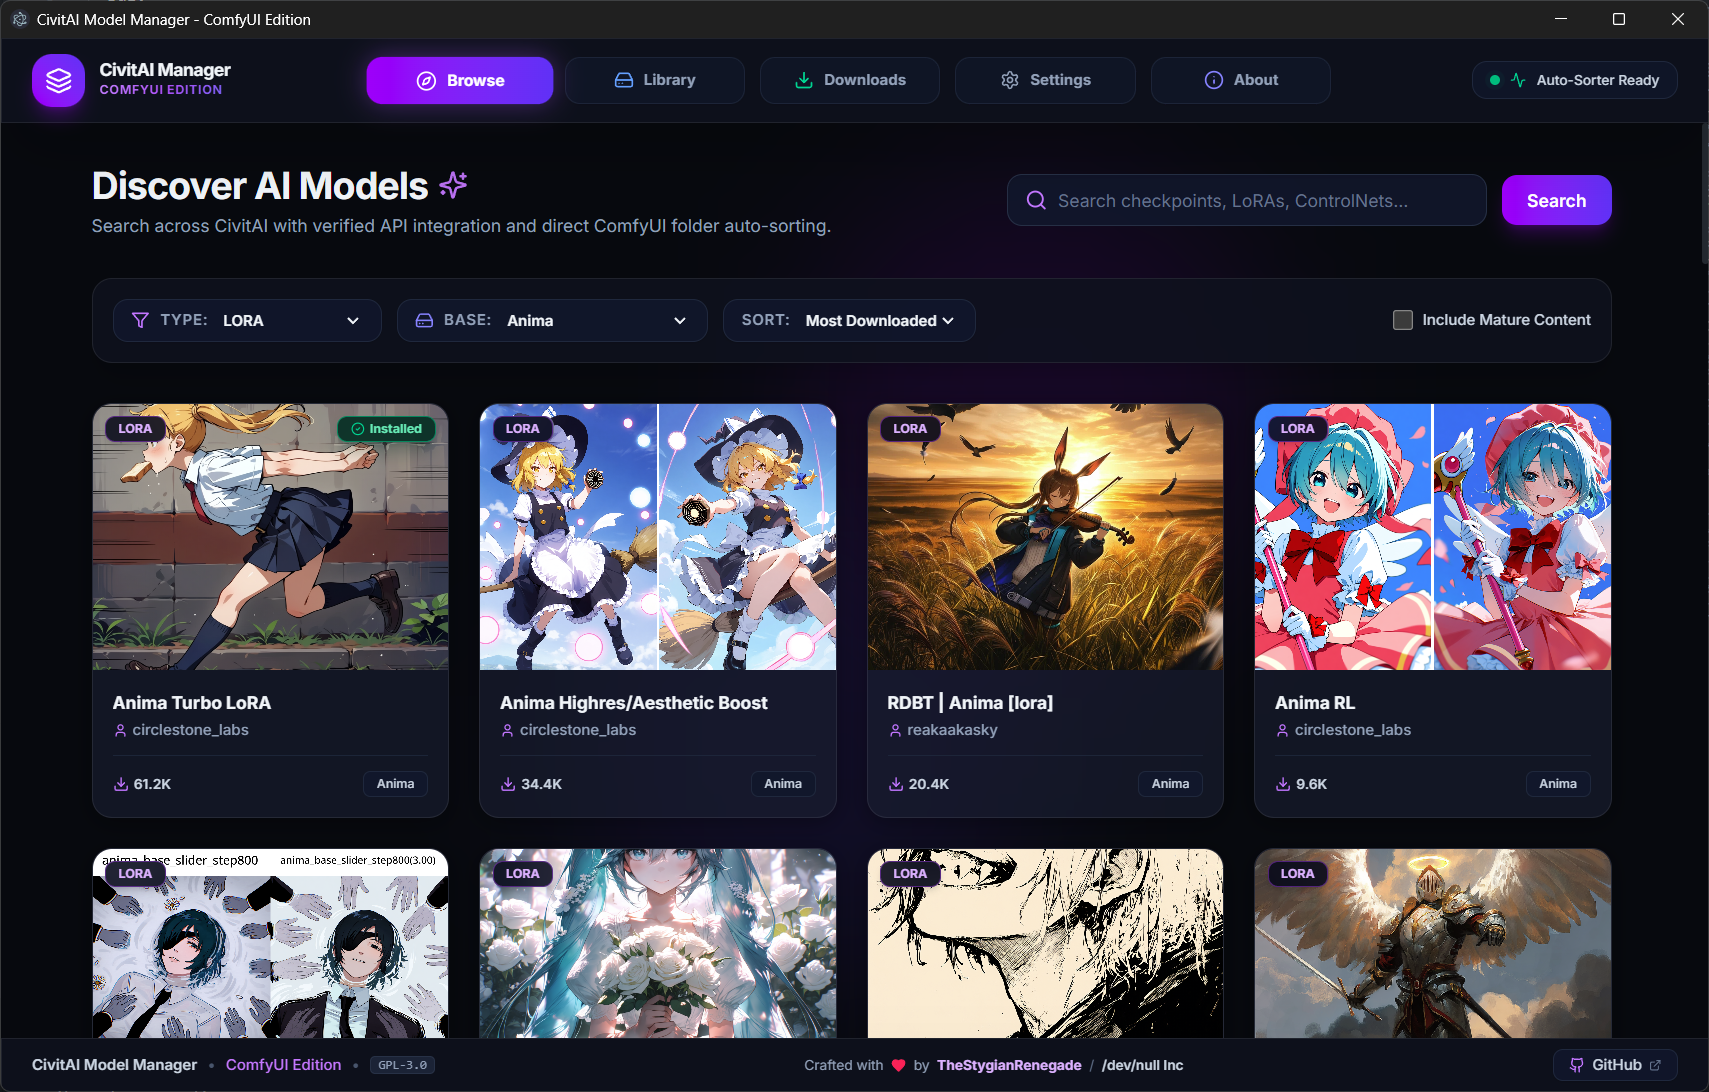
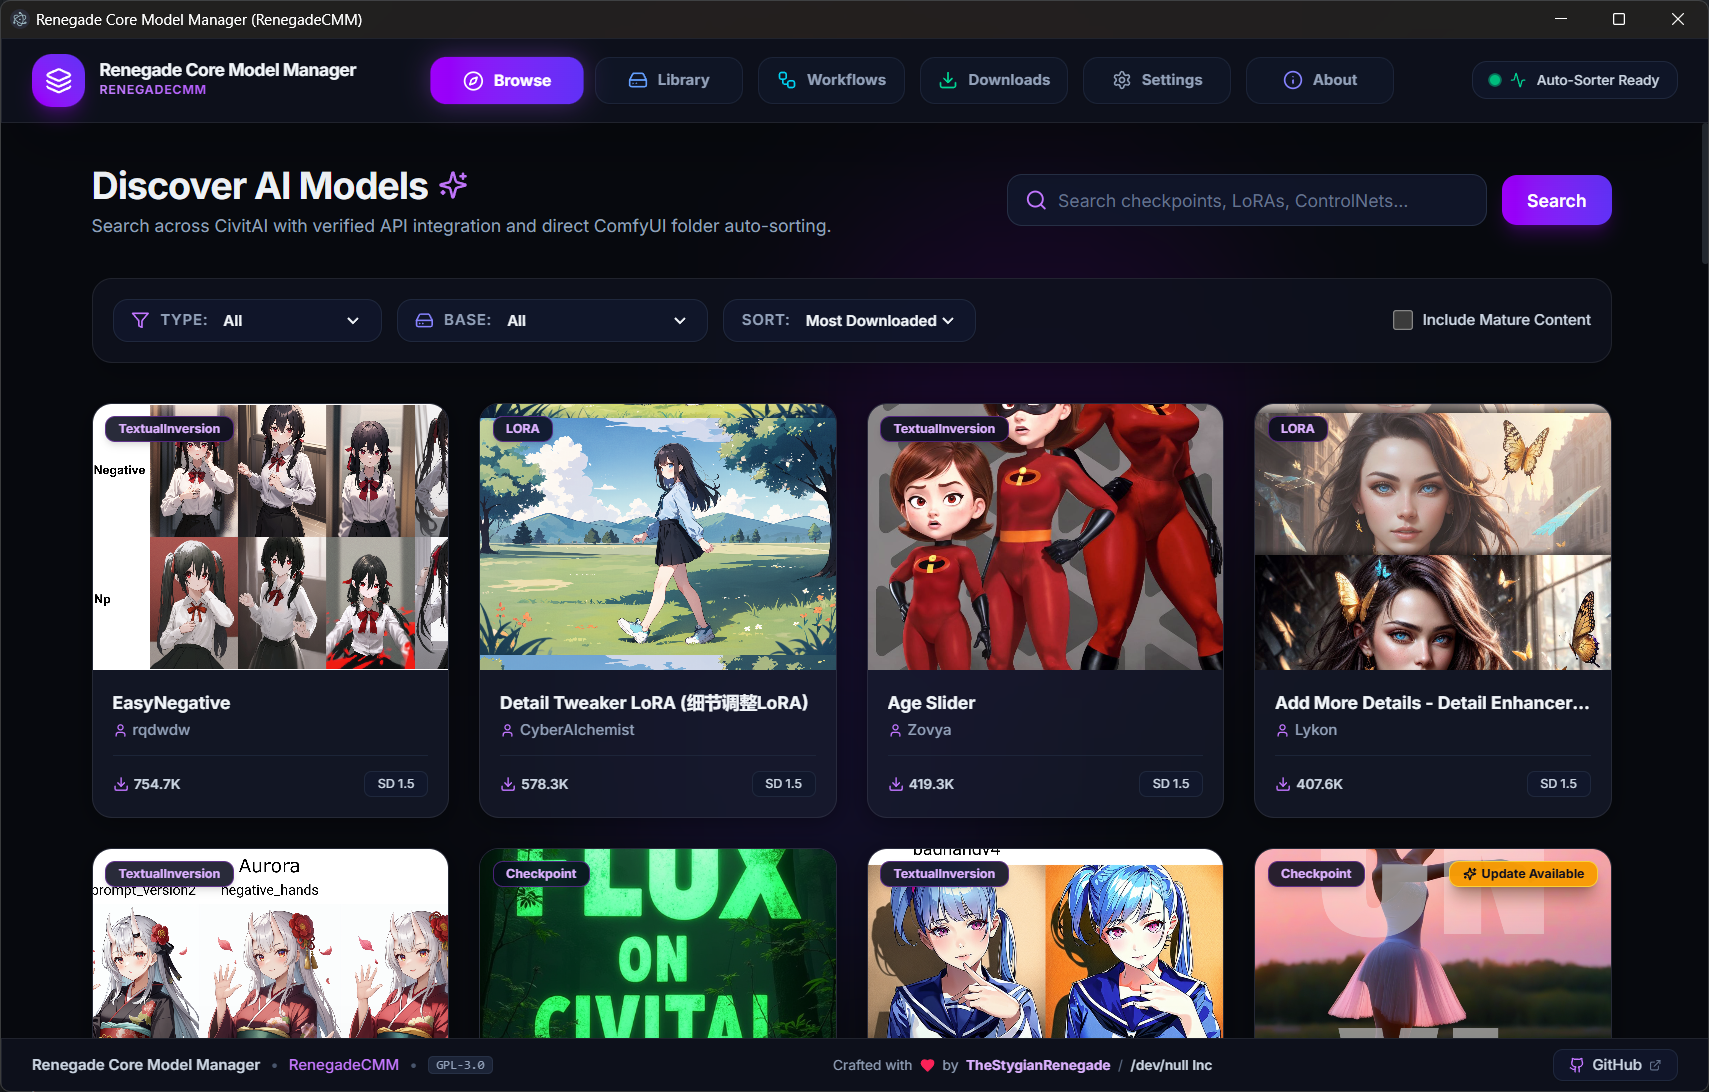
(docs) add Workflows tab screenshot to README and refresh tab screenshots
- Add docs/screenshots/workflows-tab.png (new) to the Screenshots grid, paired with the existing but previously-unreferenced about-tab.png to keep the 2-column layout balanced.
- Update README screenshot table with a Workflows & Missing Node Resolver row.
- Refresh the four existing tab screenshots (browse, library, downloads, settings).

diff --git a/README.md b/README.md
@@ -26,6 +26,10 @@
 | :-----------------------------------------------------------------------------------------------------------------------------------: | :---------------------------------------------------------------------------------------------------------------------------------: |
 | <a href="docs/screenshots/downloads-tab.png"><img src="docs/screenshots/downloads-tab.png" alt="Downloads Manager" width="460" /></a> | <a href="docs/screenshots/settings-tab.png"><img src="docs/screenshots/settings-tab.png" alt="Settings & Backup" width="460" /></a> |
 
+|                                            **Workflow & Missing Node Resolver**                                             |                                                  **About & Project Info**                                                  |
+| :--------------------------------------------------------------------------------------------------------------------------: | :------------------------------------------------------------------------------------------------------------------------: |
+| <a href="docs/screenshots/workflows-tab.png"><img src="docs/screenshots/workflows-tab.png" alt="Workflow & Missing Node Resolver" width="460" /></a> | <a href="docs/screenshots/about-tab.png"><img src="docs/screenshots/about-tab.png" alt="About & Project Info" width="460" /></a> |
+
 ---
 
 ## 🎯 Why CMM?
